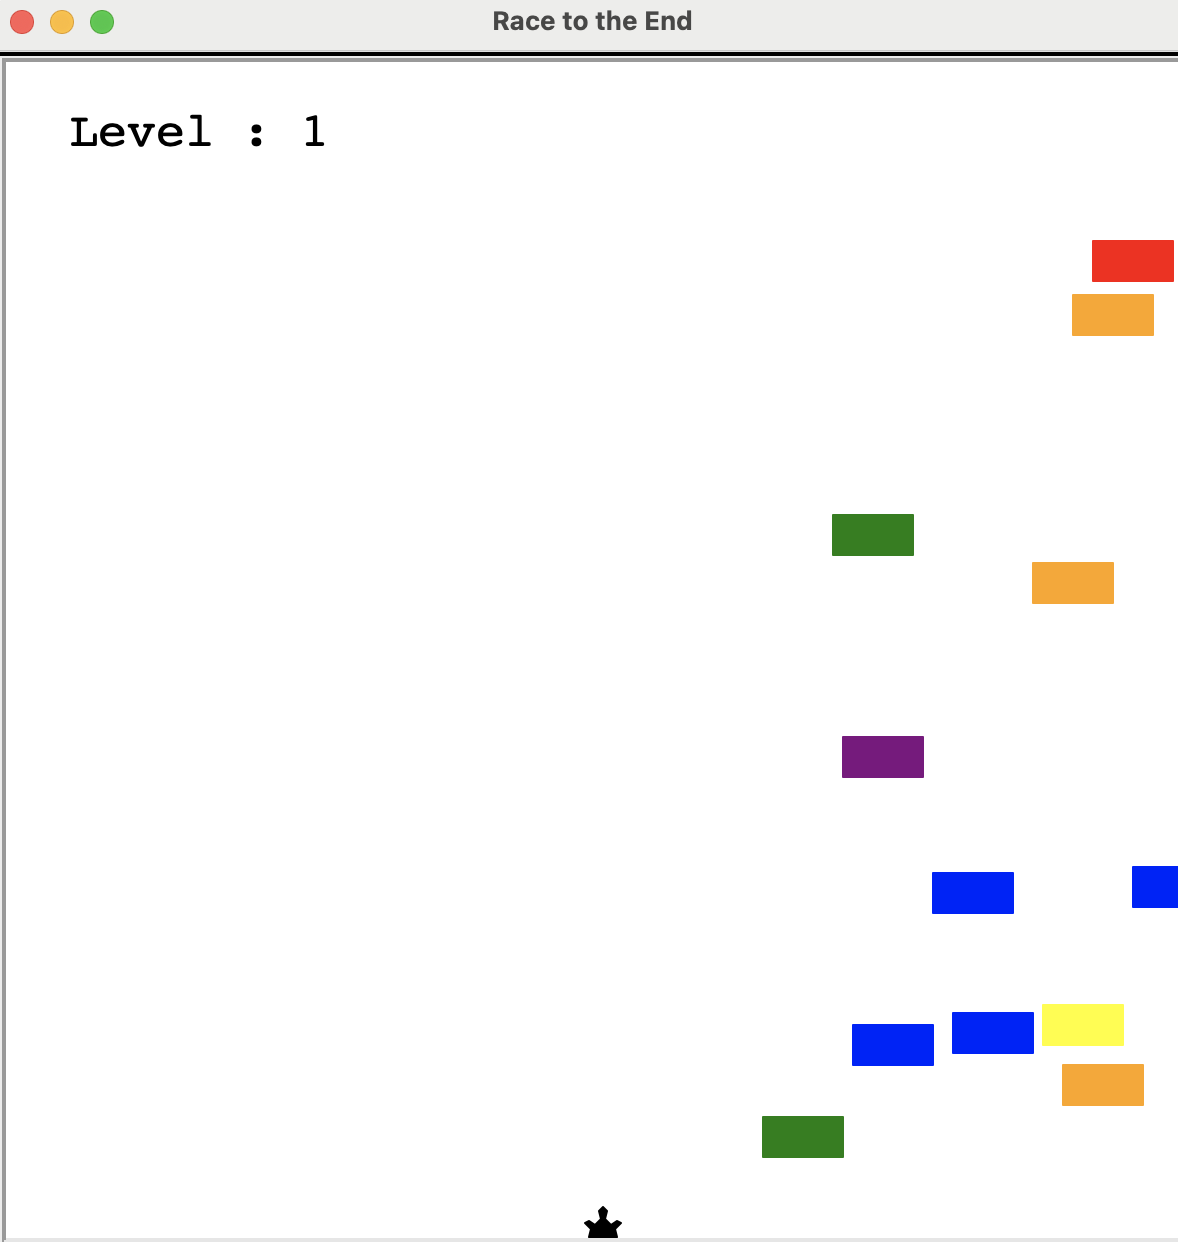
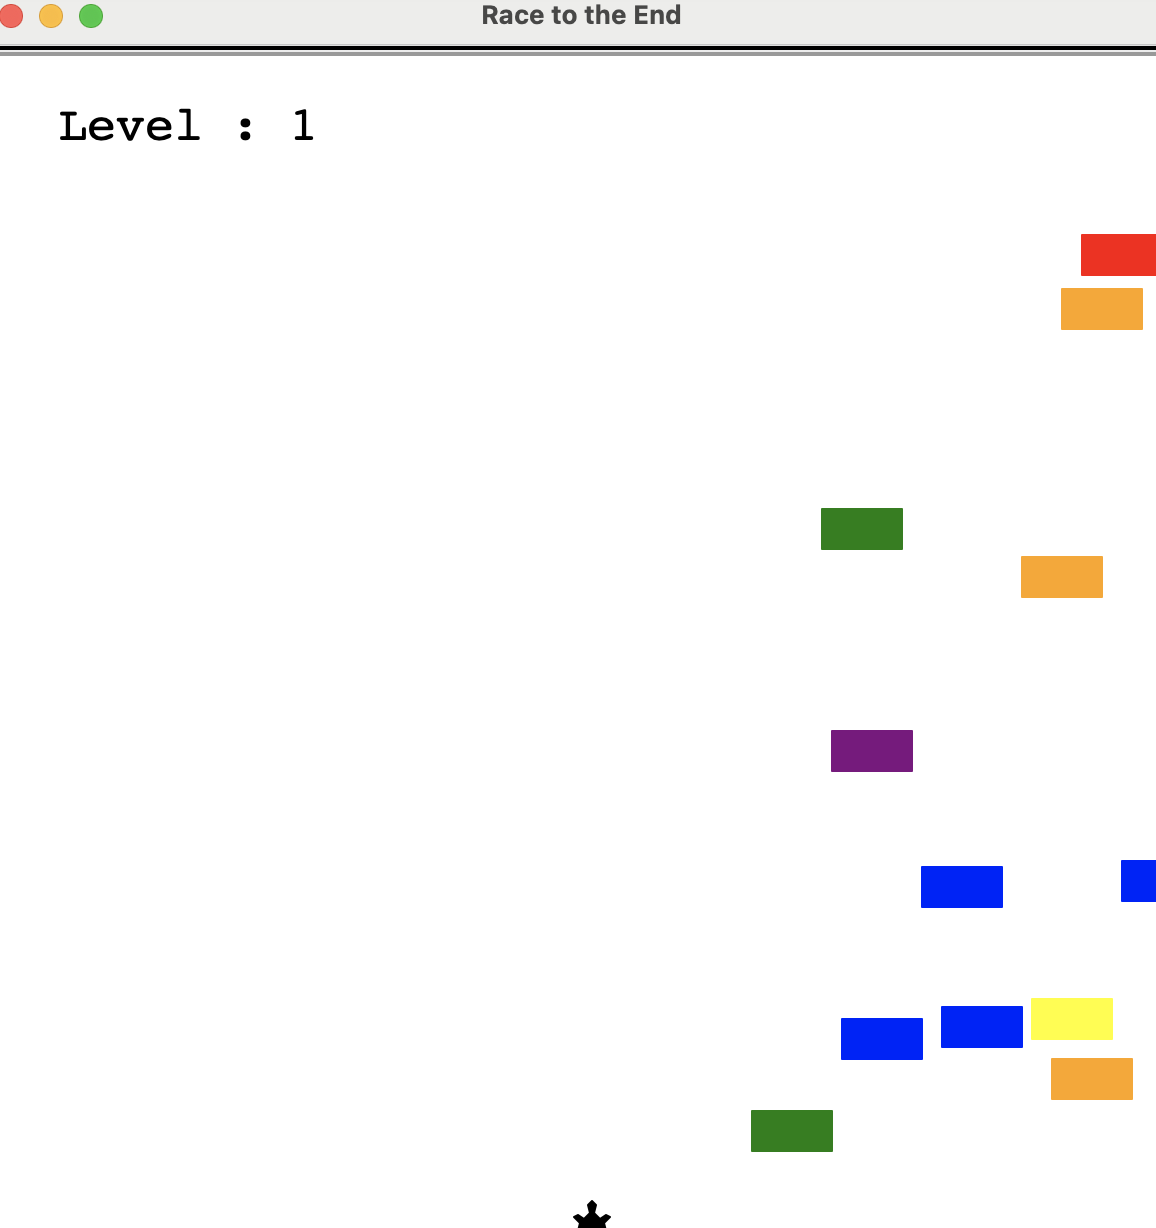
Adjust image size

diff --git a/Avoid_cars_game/README.md b/Avoid_cars_game/README.md
@@ -2,7 +2,7 @@
 
 A fun and challenging game where players control a character trying to avoid oncoming cars while racing to the finish line. Built using Python's `turtle` module, this game tests reflexes and timing.
 
-![avoid-cars](avoid_cars.png)
+<img src="avoid_cars.png" width="400">
 
 ## Table of Contents
 
